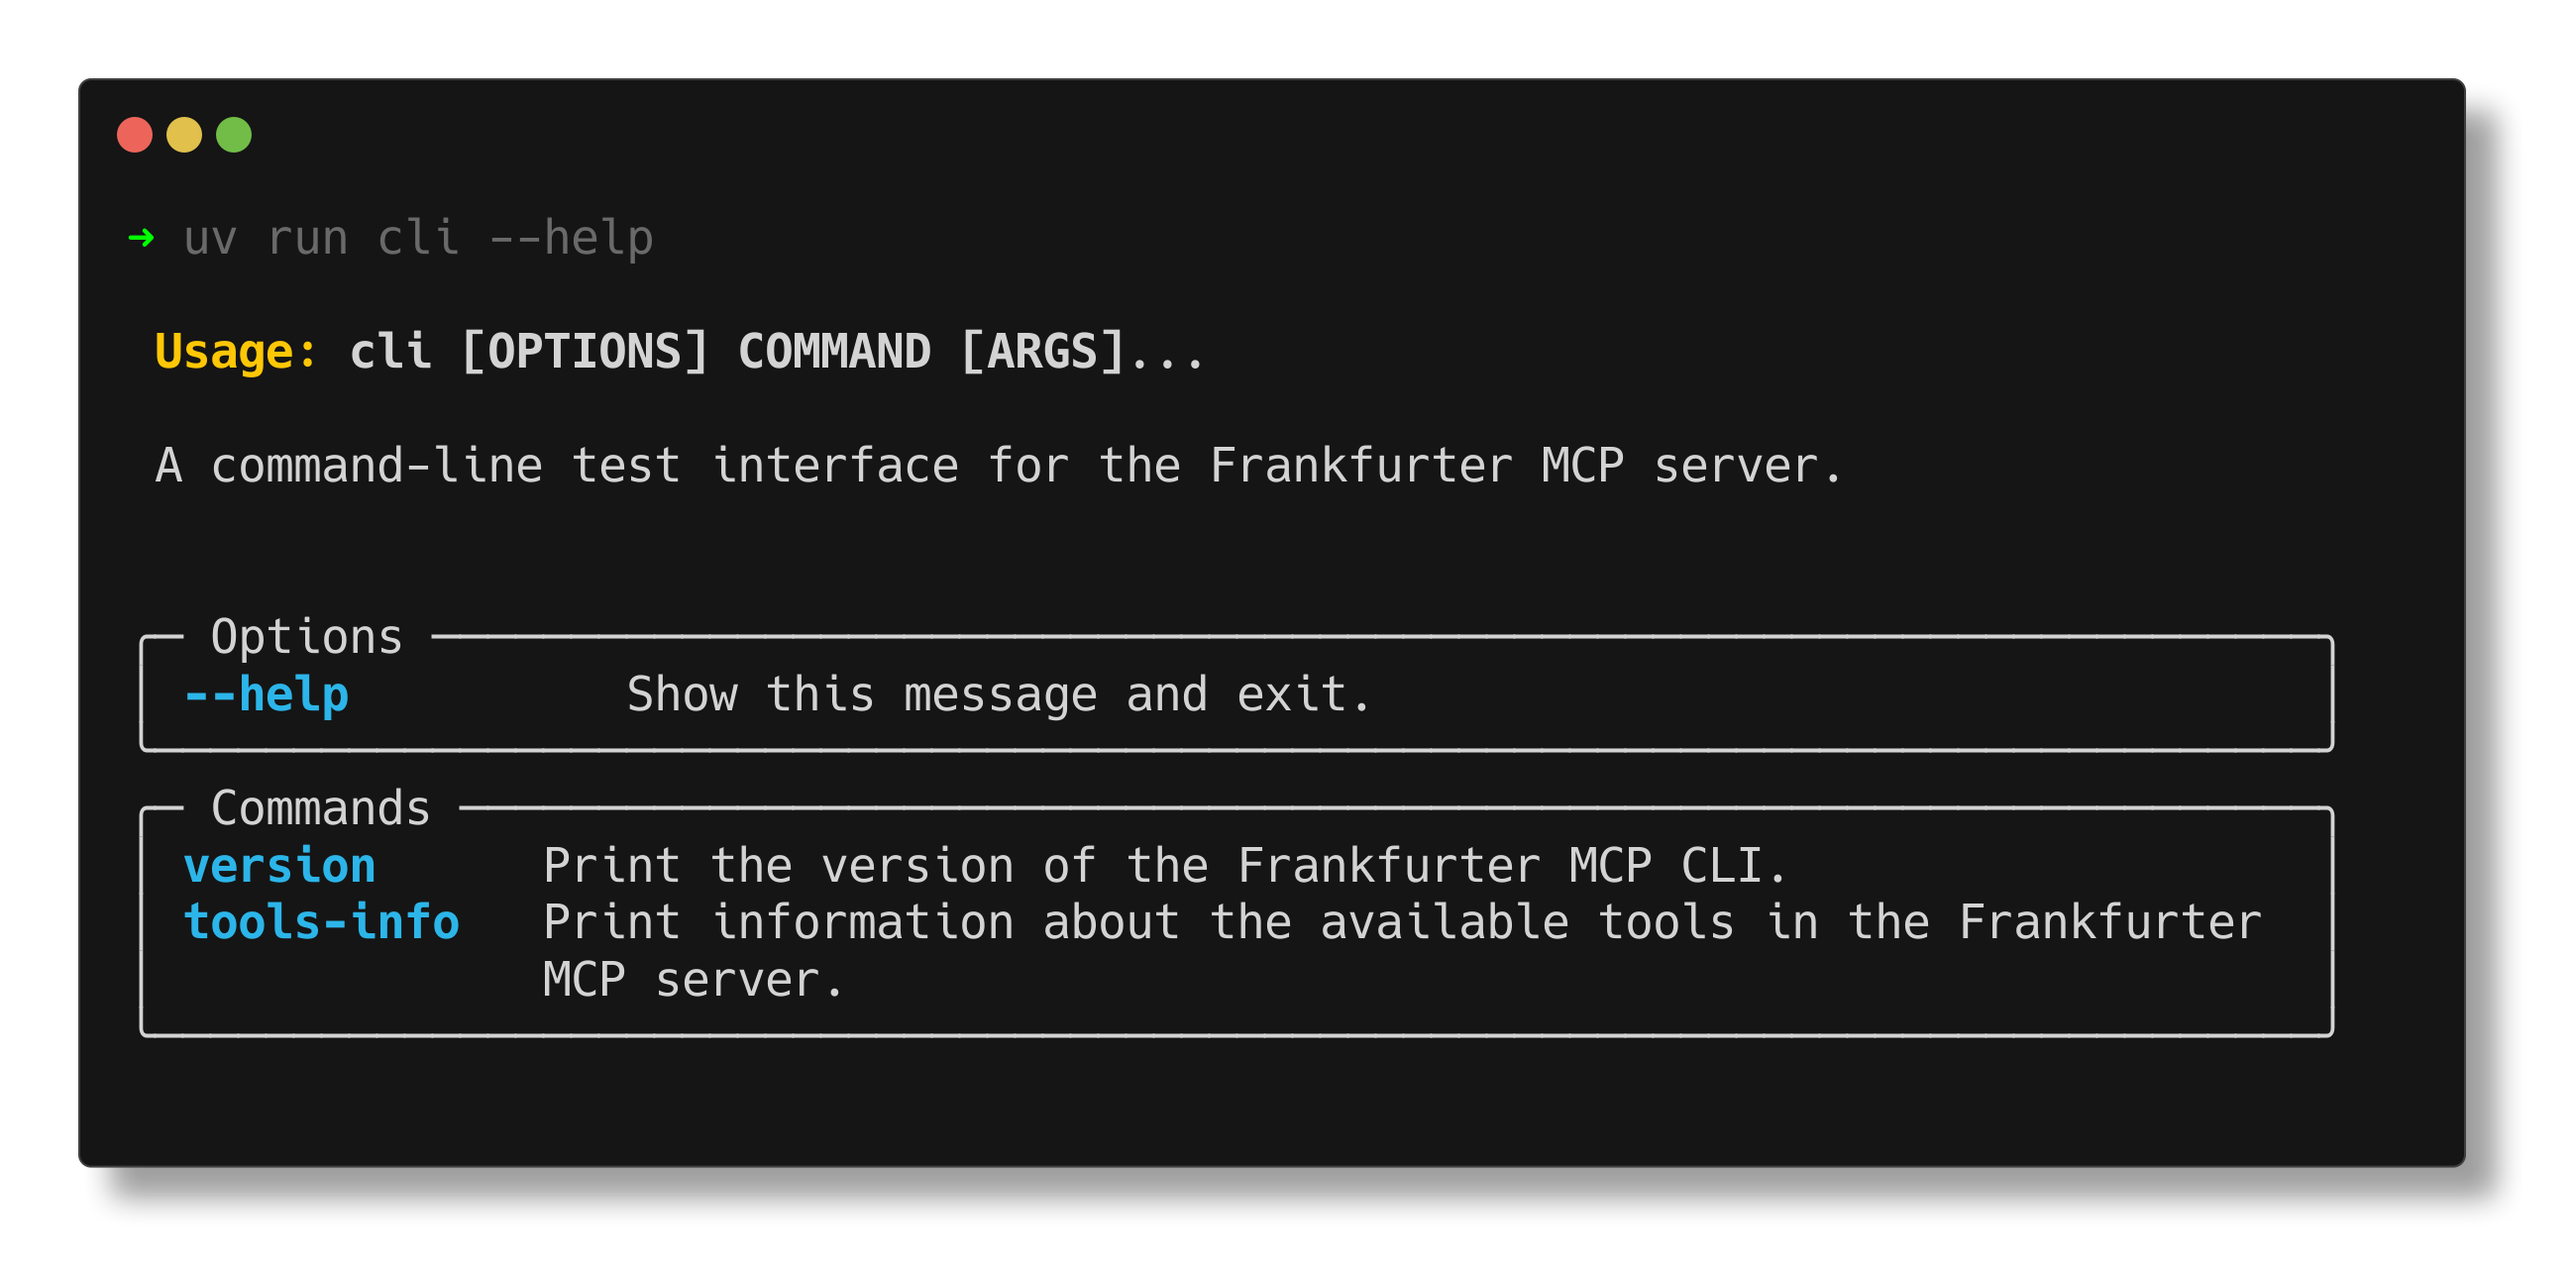
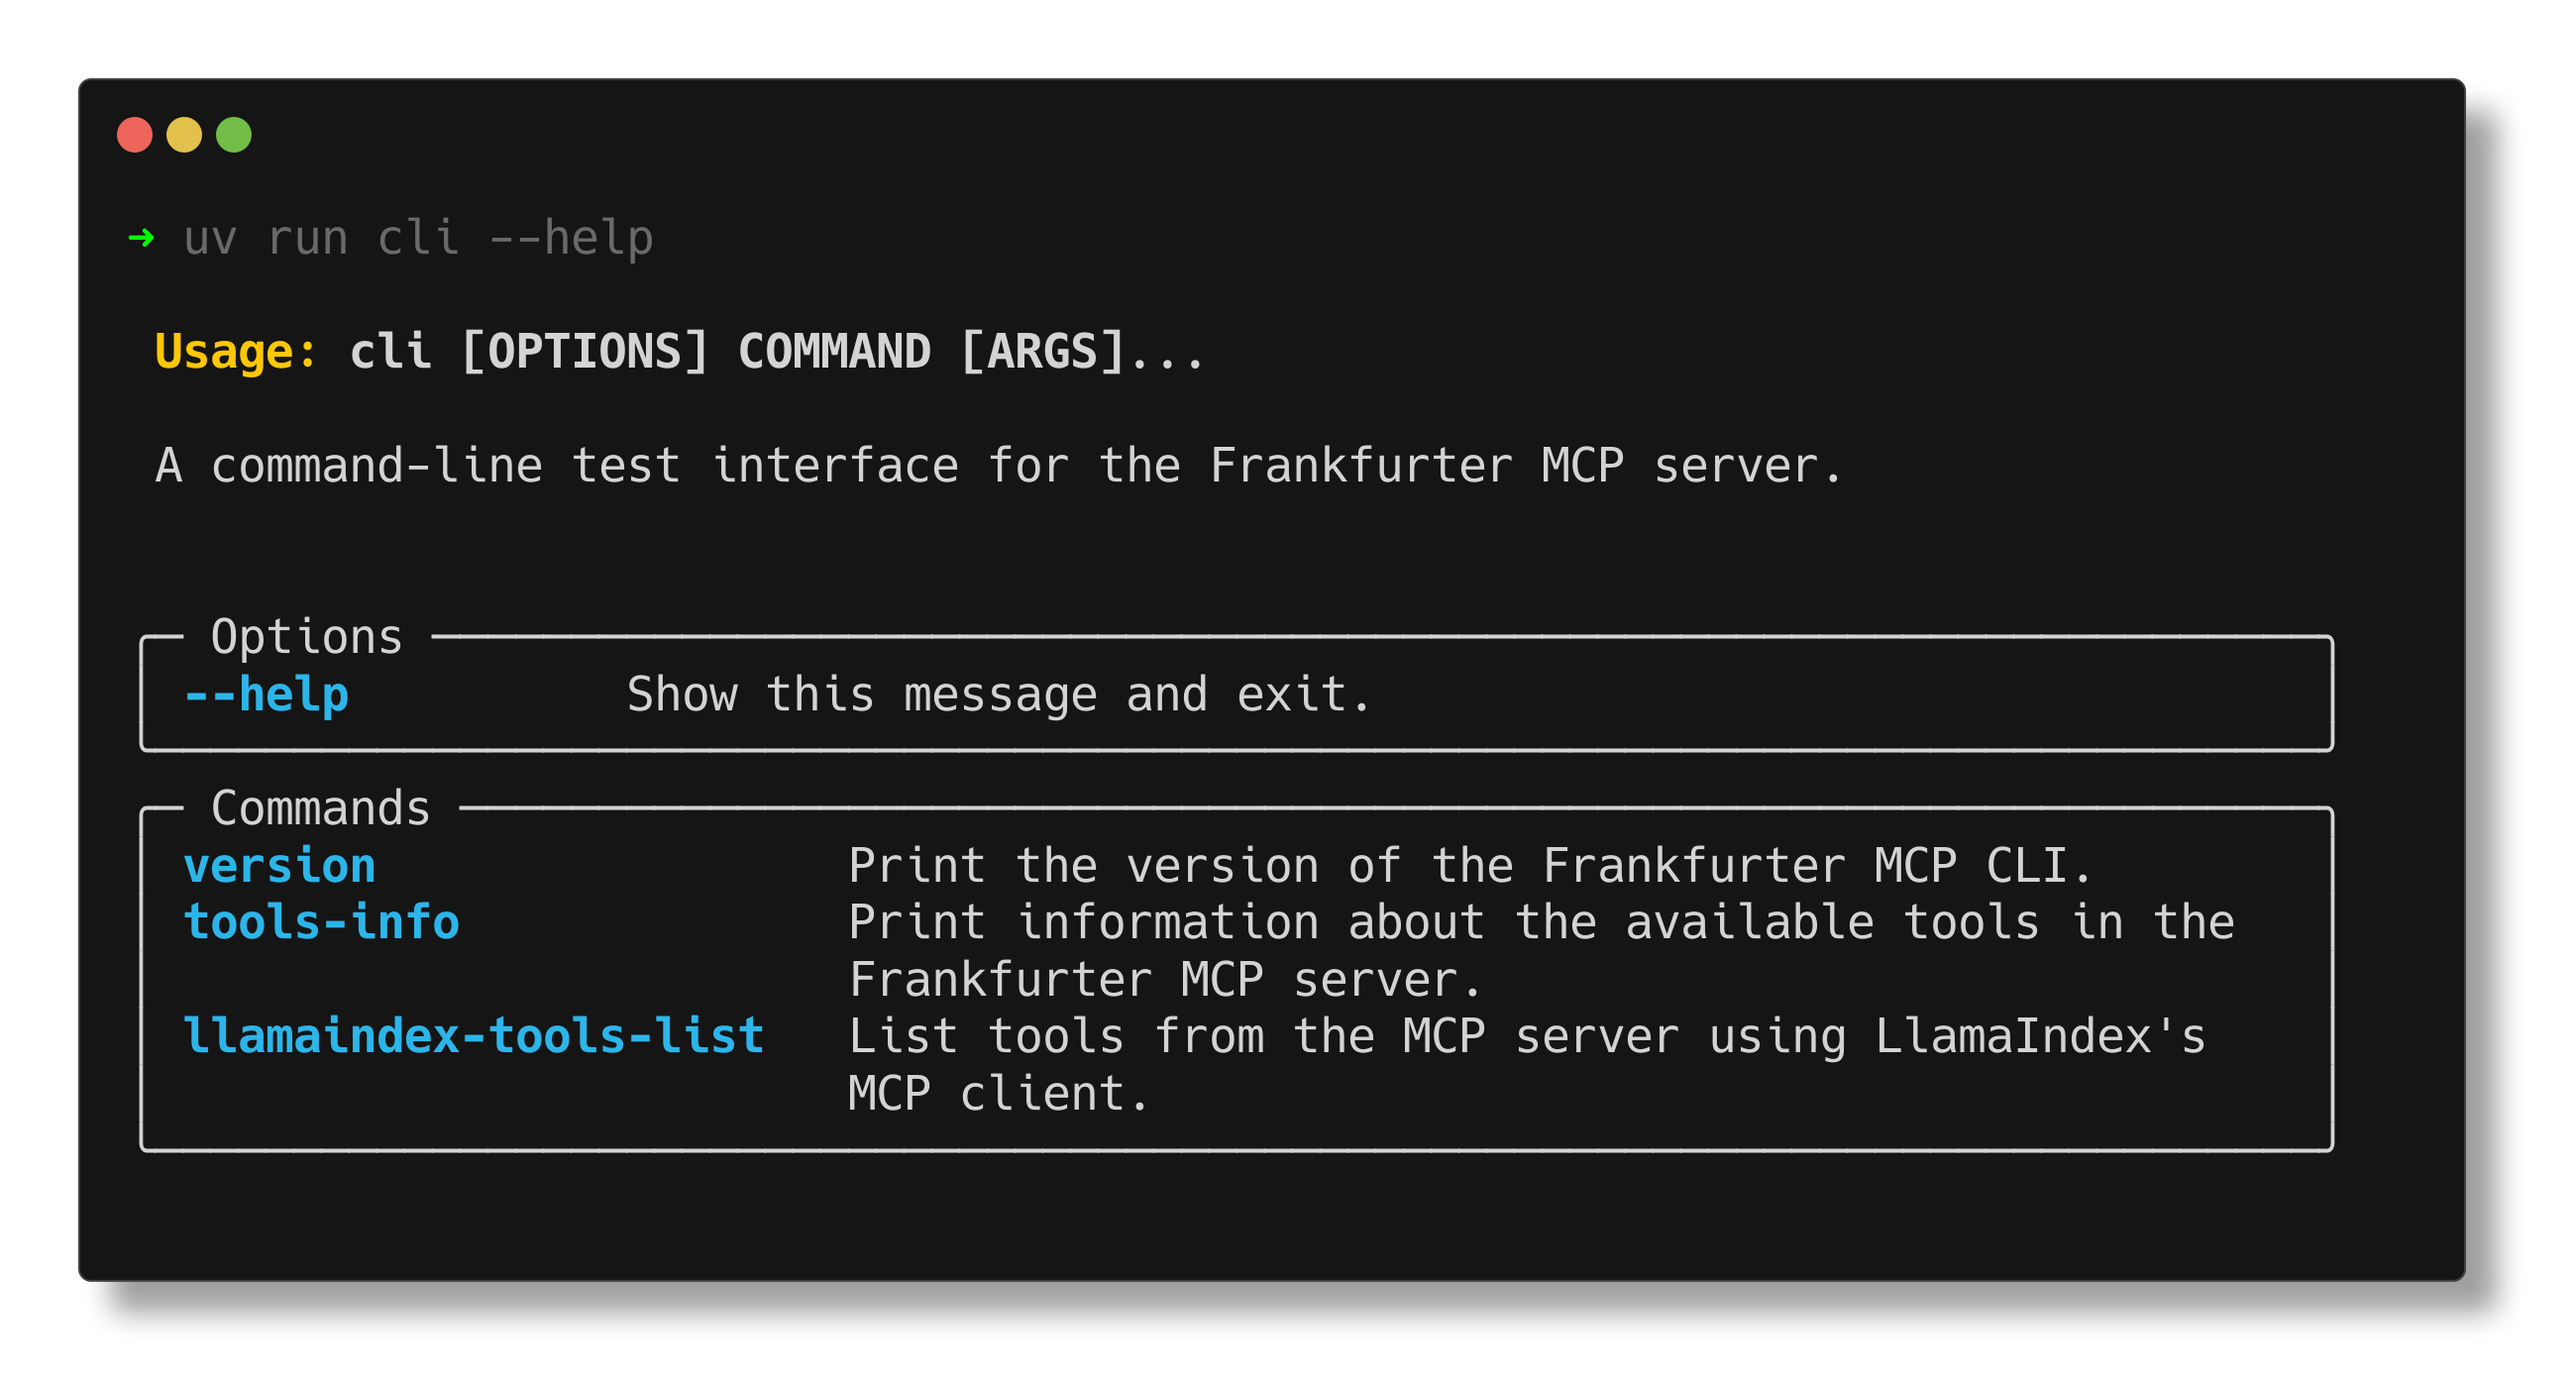
feat: Optimised Dockerfiles for smaller image sizes. chore: Updated documentation.

diff --git a/src/frankfurtermcp/cli.py b/src/frankfurtermcp/cli.py
@@ -11,14 +11,6 @@ from frankfurtermcp.common import (
     package_metadata,
 )
 
-from llama_index.tools.mcp import (
-    # get_tools_from_mcp_url,
-    aget_tools_from_mcp_url,
-    BasicMCPClient,
-)
-
-# from frankfurtermcp.common import ic
-
 app = Typer(
     name=f"{package_metadata['Name']}-cli",
     no_args_is_help=True,
@@ -68,7 +60,7 @@ def tools_info():
         print("[bold red]No tools found.[/bold red]")
     else:
         table = Table(
-            caption="List of available tools using FastMCP client",
+            caption="List of available tools using the FastMCP client",
             caption_justify="right",
         )
         table.add_column("Name", style="cyan", no_wrap=True)
@@ -87,6 +79,17 @@ def llamaindex_tools_list():
     """
     List tools from the MCP server using LlamaIndex's MCP client.
     """
+    try:
+        from llama_index.tools.mcp import (
+            aget_tools_from_mcp_url,
+            BasicMCPClient,
+        )
+    except ImportError:
+        print(
+            "[bold red]LlamaIndex MCP client is not installed because it is an optional dependency.[/bold red] "
+            "Please install it by calling [yellow]uv sync --extra opt[/yellow]."
+        )
+        sys.exit(1)
     _print_header()
     transport_endpoint = get_nonstdio_transport_endpoint()
     llamaindex_client = BasicMCPClient(transport_endpoint)
@@ -97,12 +100,12 @@ def llamaindex_tools_list():
         print("[bold red]No tools found.[/bold red]")
     else:
         table = Table(
-            caption="List of available tools using LlamaIndex MCP client",
+            caption="List of available tools using the LlamaIndex MCP client",
             caption_justify="right",
         )
         table.add_column("Name", style="cyan", no_wrap=True)
         table.add_column(
-            ("Description"),
+            "Description",
             style="yellow",
         )
         for tool in tools_list:

diff --git a/README.md b/README.md
@@ -1,4 +1,5 @@
 [![Python 3.12+](https://img.shields.io/badge/python-3.12+-blue?logo=python&logoColor=3776ab&labelColor=e4e4e4)](https://www.python.org/downloads/release/python-3120/) [![Dependabot Updates](https://github.com/anirbanbasu/frankfurtermcp/actions/workflows/dependabot/dependabot-updates/badge.svg)](https://github.com/anirbanbasu/frankfurtermcp/actions/workflows/dependabot/dependabot-updates) [![pytest](https://github.com/anirbanbasu/frankfurtermcp/actions/workflows/uv-pytest.yml/badge.svg)](https://github.com/anirbanbasu/frankfurtermcp/actions/workflows/uv-pytest.yml)
+
 # Frankfurter MCP
 
 [Frankfurter](https://frankfurter.dev/) is a useful API for latest currency exchange rates, historical data, or time series published by sources such as the European Central Bank. Should you have to access the Frankfurter API as tools for language model agents exposed over the Model Context Protocol (MCP), Frankfurter MCP is what you need.
@@ -9,6 +10,7 @@ Following is a table of some updates regarding the project status. Note that the
 
 | Date     |  Status   |  Notes or observations   |
 |----------|:-------------:|----------------------|
+| June 13, 2025 |  active |  Added LlamaIndex tool listing for demonstration only. (The `--all-extras` flag is necessary to install LlamaIndex, which is not installed by default.) |
 | June 9, 2025 |  active |  Added containerisation, support for self-signed, proxies. |
 | June 8, 2025 |  active |  Added dynamic composition. |
 | June 7, 2025 |  active |  Added tools to cover all the functionalities of the Frankfurter API. |
@@ -18,11 +20,10 @@ Following is a table of some updates regarding the project status. Note that the
 
 The directory where you clone this repository will be referred to as the _working directory_ or _WD_ hereinafter.
 
-Install [uv](https://docs.astral.sh/uv/getting-started/installation/). To install the project with its essential dependencies in a virtual environment, run the following in the _WD_. To install all non-essential dependencies (_which are required for developing and testing_), add the `--all-extras` flag to the following command.
-
+Install [uv](https://docs.astral.sh/uv/getting-started/installation/). To install the project with its minimal dependencies in a virtual environment, run the following in the _WD_. To install all non-essential dependencies (_which are required for developing and testing_), replace the `--no-dev` with the `--all-groups --all-extras` flag in the following command.
 
 ```bash
-uv sync
+uv sync --no-dev
 ```
 
 ## Environment variables
@@ -73,36 +74,17 @@ The MCP endpoint will be available over HTTP at [http://localhost:8000/sse](http
 
 There are two Dockerfiles provided in this repository.
 
- - `pypi.dockerfile` for using the version of `frankfurtermcp` on PyPI.
+ - `smithery.dockerfile` for automatically deploying this project to [Smithery AI](https://smithery.ai/). **You do not need to use this Dockerfile**.
  - `local.dockerfile` for using the latest version, which can contain your edits to the code if you do make edits.
-
-### Using the version available on PyPI
 
 To build the image, create the container and start it, run the following in _WD_. _Choose shorter names for the image and container if you prefer._
 
-```bash
-docker build -f pypi.dockerfile -t frankfurtermcp-pypi .
-docker create -p 8000:8000/tcp --env-file .env.template --expose 8000 --name frankfurtermcp-pypi-container frankfurtermcp-pypi
-docker start frankfurtermcp-pypi-container
-```
-
-Upon successful build and container start, the MCP server will be available over HTTP at [http://localhost:8000/sse](http://localhost:8000/sse) for the Server Sent Events (SSE) transport, or [http://localhost:8000/mcp](http://localhost:8000/mcp) for the streamable HTTP transport.
-
-### Using the local version
-
-Before containerising the local version, you must build the project distribution wheel file and ensure that only one such wheel file exists. To do so, run the following in _WD_.
+If you change the port to anything other than 8000 in `.env.template`, _do remember to change the port number references in the following command_. Instead of passing all the environment variables using the `--env-file` option, you can also pass individual environment variables using the `-e` option.
 
 ```bash
-rm -fR dist
-uv build
-```
-
-Once the distribution has been built, to build the Docker image, create the container and start it, run the following in _WD_. _Choose shorter names for the image and container if you prefer._
-
-```bash
-docker build -f local.dockerfile -t frankfurtermcp-local .
-docker create -p 8000:8000/tcp --env-file .env.template --expose 8000 --name frankfurtermcp-local-container frankfurtermcp-local
-docker start frankfurtermcp-local-container
+docker build -f local.dockerfile -t frankfurtermcp .
+docker create -p 8000:8000/tcp --env-file .env.template --expose 8000 --name frankfurtermcp-container frankfurtermcp
+docker start frankfurtermcp-container
 ```
 
 Upon successful build and container start, the MCP server will be available over HTTP at [http://localhost:8000/sse](http://localhost:8000/sse) for the Server Sent Events (SSE) transport, or [http://localhost:8000/mcp](http://localhost:8000/mcp) for the streamable HTTP transport.
@@ -138,6 +120,10 @@ This will produce an output similar to the screenshot below.
 Before calling the `tools-info` command, you **MUST** have the server running in `streamable-http` or `sse` transport mode, preferably locally, e.g., by invoking `uv run frankfurtermcp`. A successful call of the `tools-info` command will generate an output similar to the screenshot shown below.
 
 ![cli-tools-info-screenshot](https://raw.githubusercontent.com/anirbanbasu/frankfurtermcp/master/screenshots/cli-tools-info.png "FrankfurterMCP CLI tools-info")
+
+Alternative to the `tools-info` command, you can also run call the `llamaindex-tools-list` command to display the names of the tools without the respective function schemas. This functionality is provided only to optionally demonstrate that the LlamaIndex MCP client can read the tools list from this MCP server. In order for this to function, you must install LlamaIndex MCP client by calling `uv sync --extra opt`. The output of calling this command will look like the following.
+
+![cli-llamaindex-tools-list-screenshot](https://raw.githubusercontent.com/anirbanbasu/frankfurtermcp/master/screenshots/cli-llamaindex-tools-list.png "FrankfurterMCP CLI llamaindex-tools-list")
 
 ## Contributing
 
